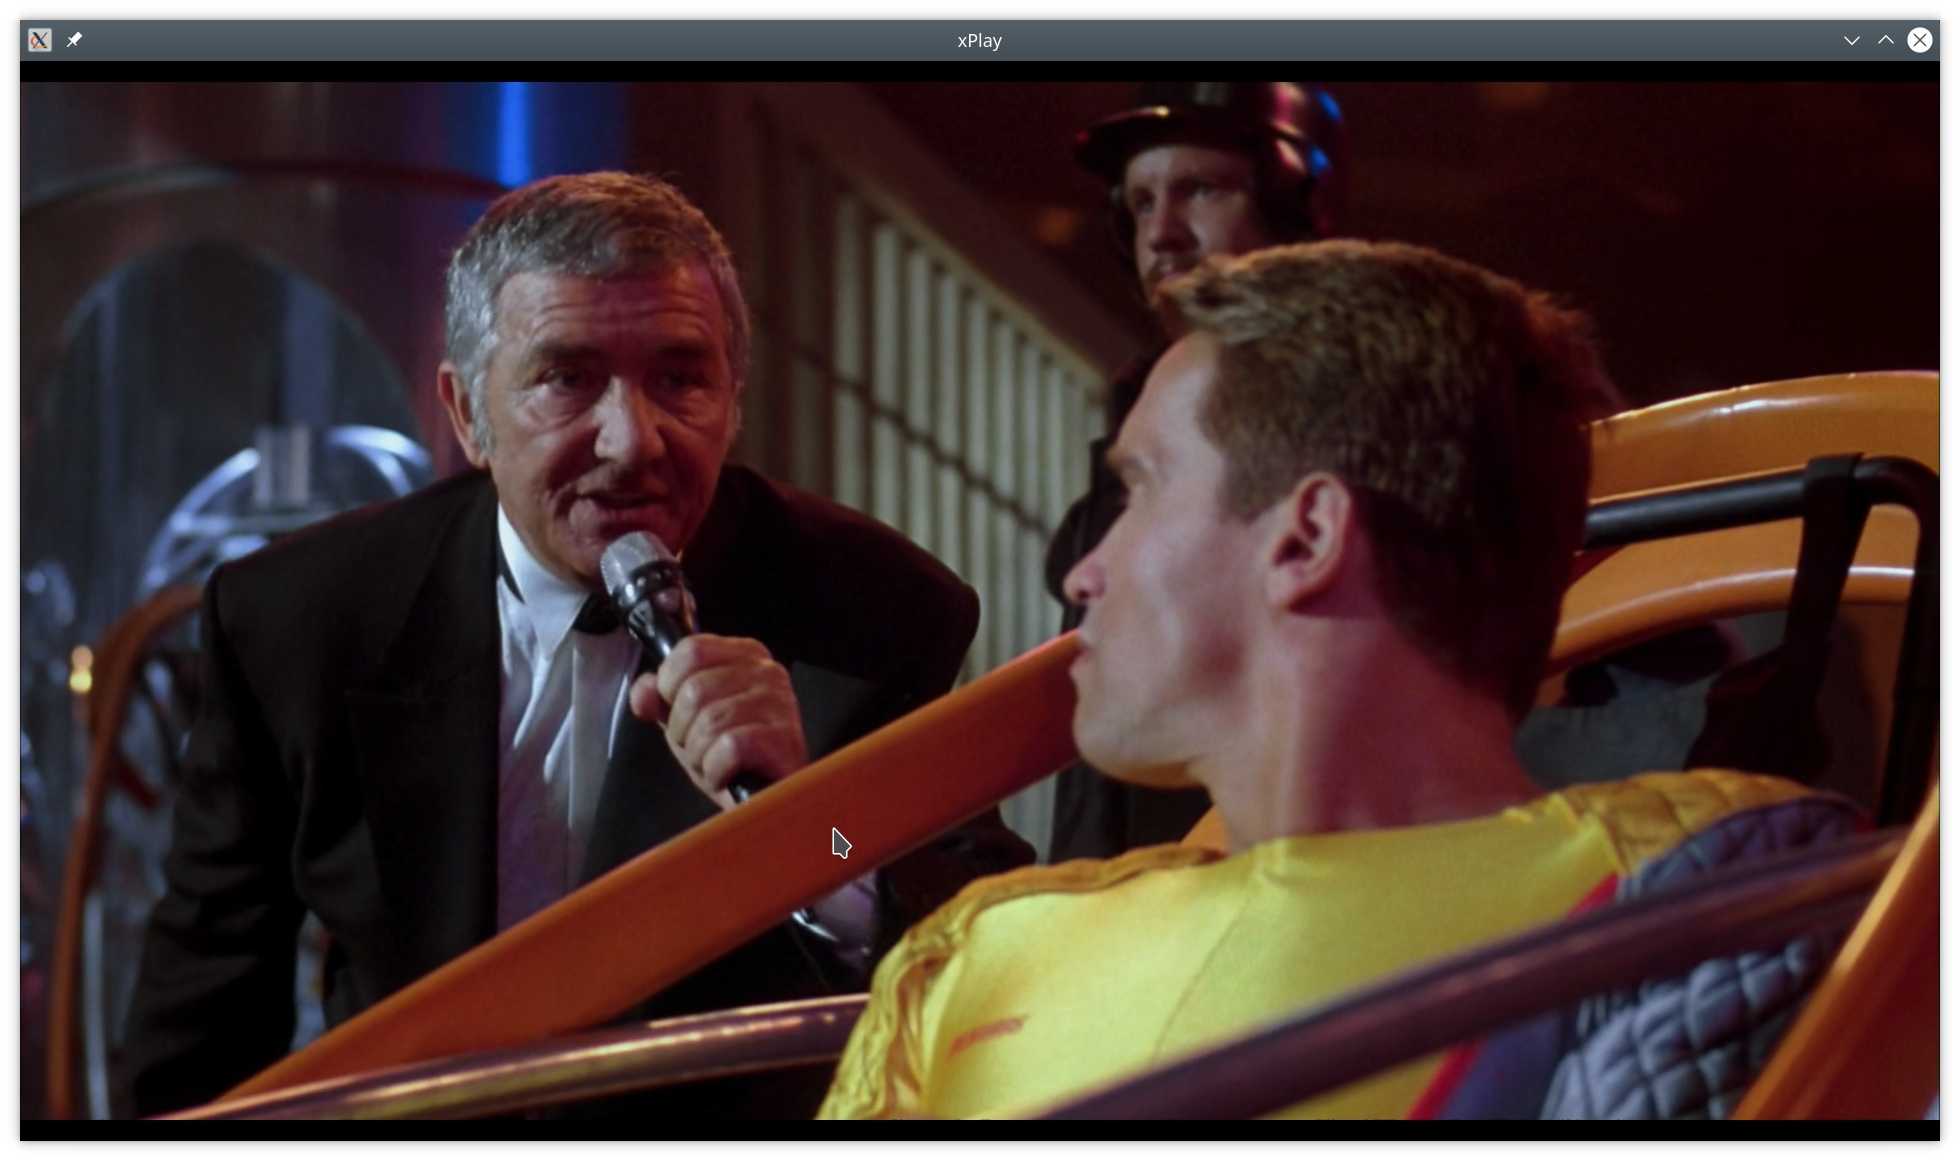
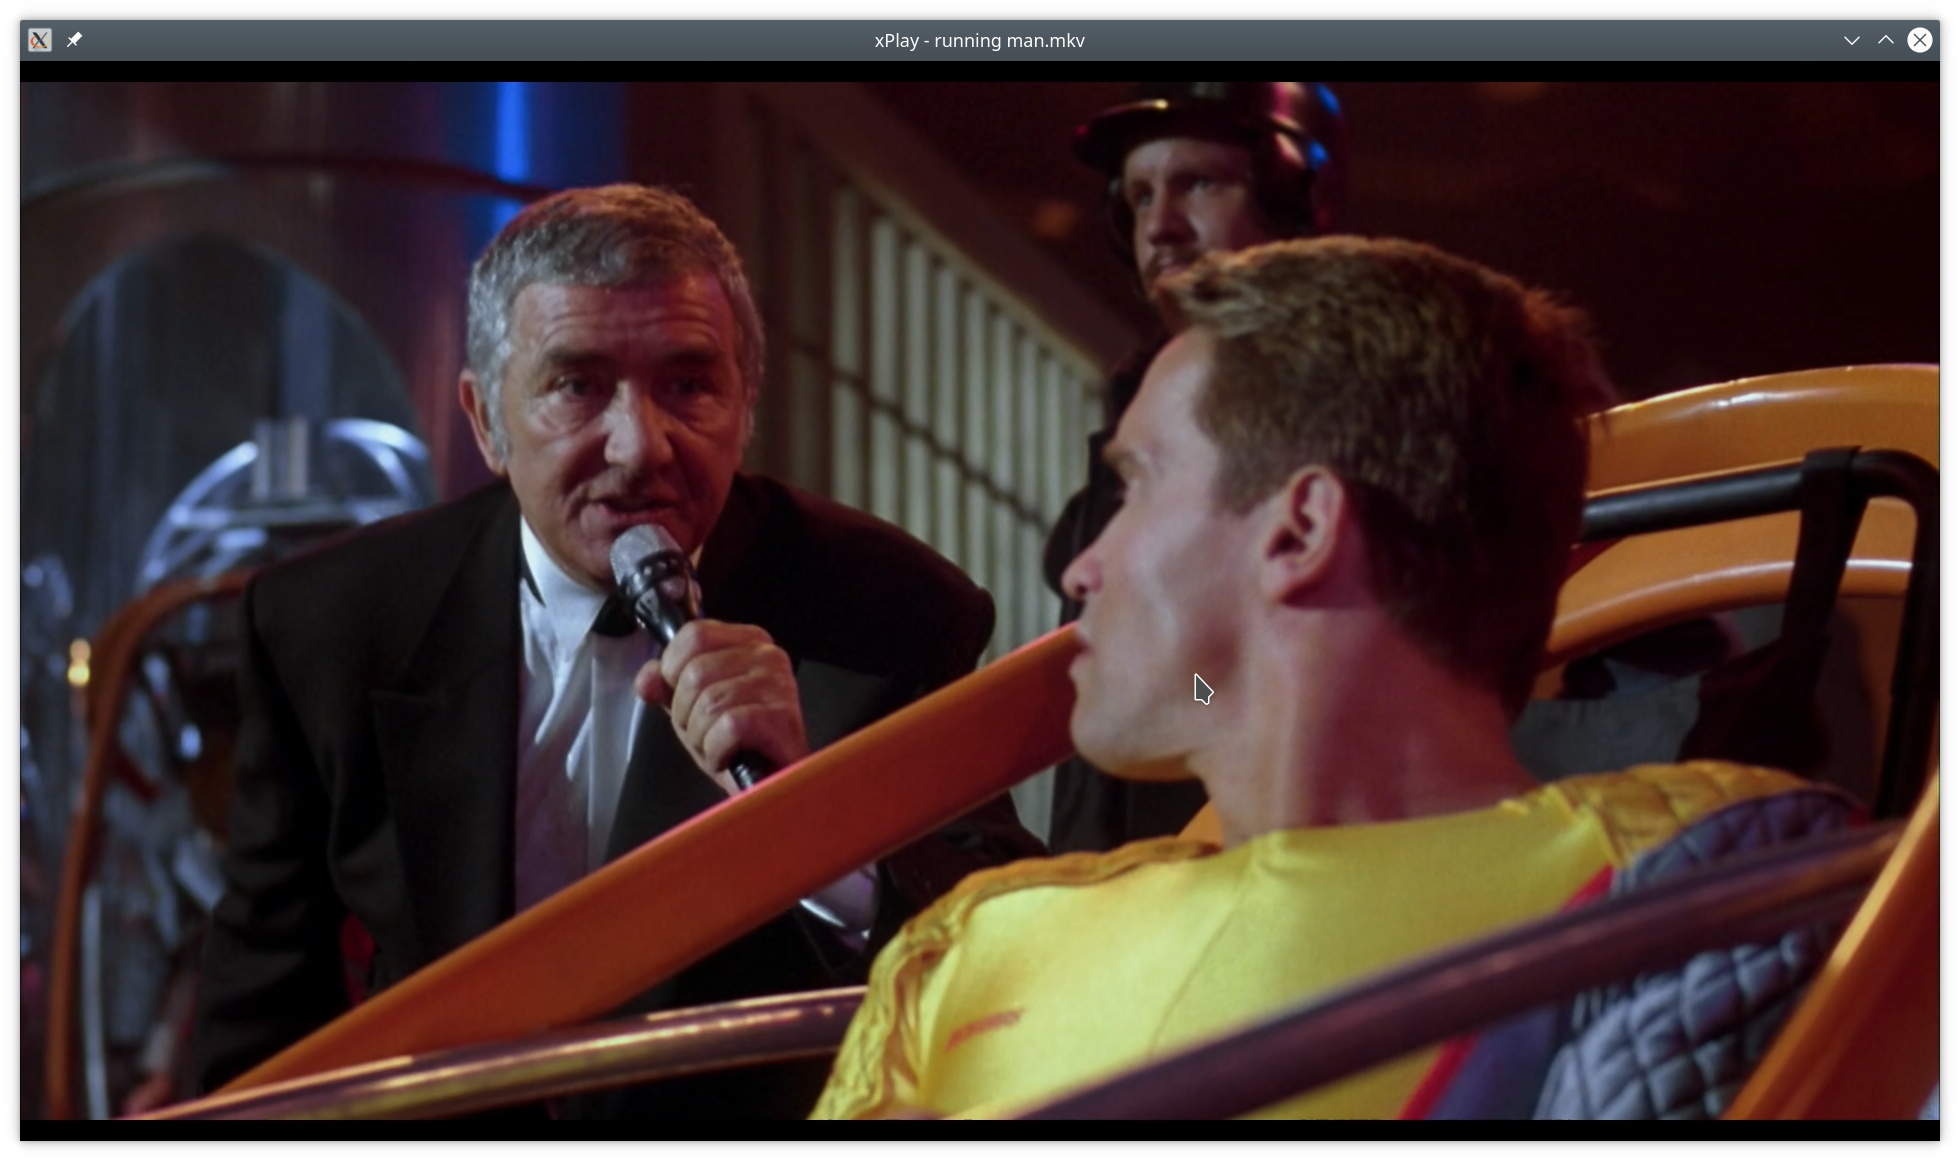
Update CHANGELOG.md and README.md. Update screenshots and version number.

diff --git a/xPlay.cpp b/xPlay.cpp
@@ -147,7 +147,7 @@ int main(int argc, char* argv[])
 {
     QApplication playApp(argc, argv);
     QApplication::setApplicationName("xPlay");
-    QApplication::setApplicationVersion("0.4.3");
+    QApplication::setApplicationVersion("0.4.4");
     if (handleCommandLine(playApp)) {
         // Exit if the command line was handled.
         return 0;

diff --git a/README.md b/README.md
@@ -78,7 +78,7 @@ xPlay has a music view, a movie view and a streaming view.
 ### Music View 
 
 ![Screenshot Music View](screenshots/xplay_screenshot_music_view_00.png)
-![Screenshot Music View](screenshots/xplay_screenshot_music_view_01.png)
+![Screenshot Music View (rotel)](screenshots/xplay_screenshot_music_view_01.png)
 
 The main screen of the music view has four vertical list for the artists, album, tracks and the queue. The 
 album list is updated if you click (or select) on an artist and the track list is updated if you click (or select) 
@@ -108,13 +108,14 @@ movie list will start the playback.
 
 The player section itself allows for seeking within the movie and selecting the audio channel or subtitle. The
 control section has a *play/pause* and *stop* buttons. The *rew* and *fwd* buttons jump 60 seconds backward or 
-forward in the movie. The *full window* button maximizes the video output window. The *scale and crop* checkbox 
-may be usable for some movies that have black borders. The video output window can also be toggled by a double-click. 
-In addition you can rewind and forward by 60 seconds using the left and right arrow keys. The up and down arrow keys 
-will increase or decrease the volume by one. The *S* key will toggle the scale and crop mode. The *ESC* key can be 
-used to end the full window mode. The full window mode will automatically end if the current movie is about to end.
-If the *Autoplay Next* checkbox is enabled then the next movie in the movie list will be played as soon as the 
-current movie has ended. The player will stay in fill window mode until the last movie of the list is finished.
+forward in the movie. The *full window* button maximizes the video output window. The currently played movie will
+be displayed in the window title. The *scale and crop* checkbox may be usable for some movies that have black 
+borders. The video output window can also be toggled by a double-click. In addition you can rewind and forward 
+by 60 seconds using the left and right arrow keys. The up and down arrow keys will increase or decrease the 
+volume by one. The *S* key will toggle the scale and crop mode. The *ESC* key can be used to end the full window 
+mode. The full window mode will automatically end if the current movie is about to end. If the *Autoplay Next* 
+checkbox is enabled then the next movie in the movie list will be played as soon as the current movie has ended. 
+The player will stay in fill window mode until the last movie of the list is finished.
 
 ### Streaming View
 

diff --git a/CHANGELOG.md b/CHANGELOG.md
@@ -1,5 +1,10 @@
 # Changelog
 
+## 0.4.4 - 2020-12-21
+
+- Display currently played movie in the window title if in full window mode.
+- Fix minor rounding issue in times displayed in slider.
+
 ## 0.4.3 - 2020-12-12
 
 - Add autoplay next movie feature. Updated movie player UI.
